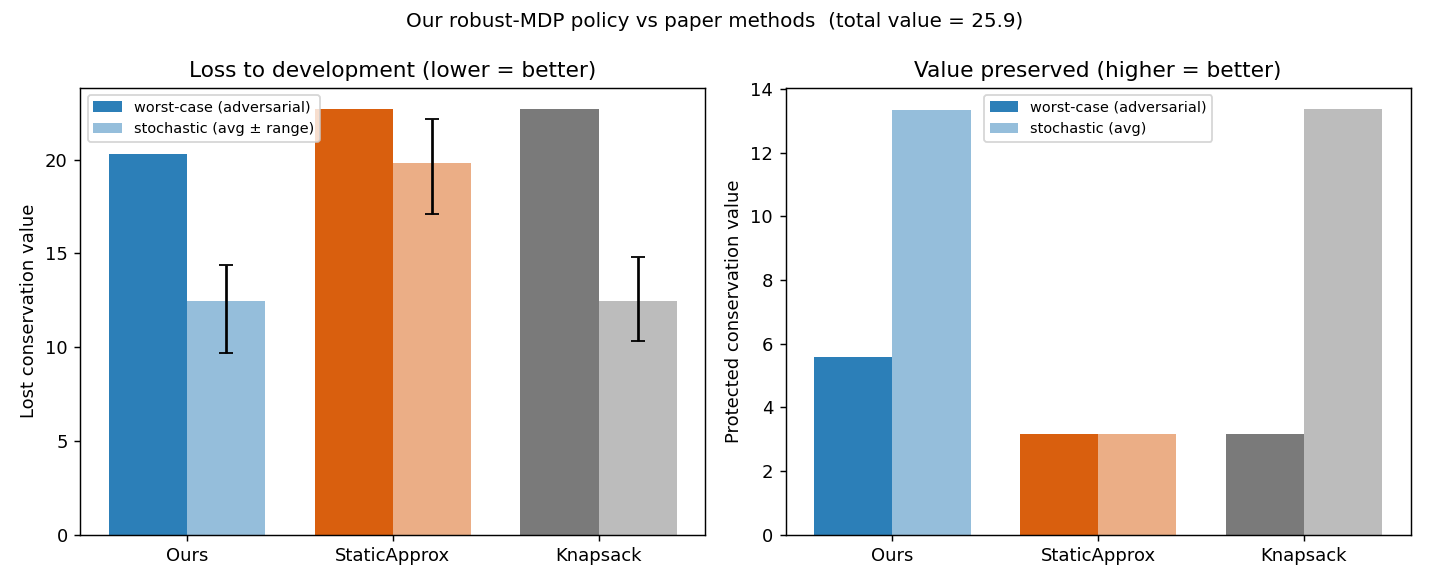
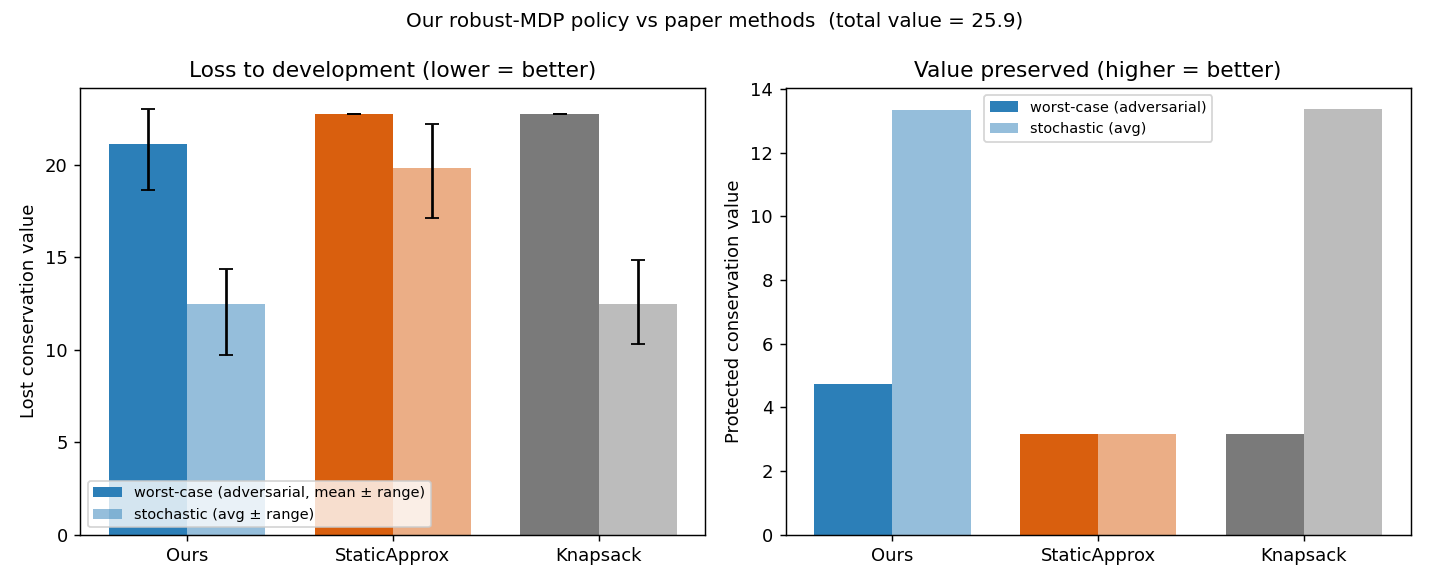
Make worst-case comparison distributional (correct a noisy single-episode claim)
The first version evaluated the worst-case adversary with one deterministic
episode per method. That was misleading: our policy samples its candidate
actions, so the greedy adversary's outcome varies trajectory-to-trajectory. The
single-episode number swung from -10.7% (run 2312346, lucky seed) to +0.4% (run
2392077, unlucky seed) -- an artifact of the metric, not the policy.

Fix: evaluate worst-case over --n-worstcase seeds (default 20) and report the
distribution, exactly as we already do for the stochastic nature. The plot now
shows mean ± range error bars on the worst-case bars too.

Corrected, reproducible result across BOTH trained runs:
  worst-case lost value  Ours 21.14 ± 1.17 (2312346) / 21.15 ± 1.49 (2392077)
                         vs StaticApprox = Knapsack = 22.72 (deterministic)
                         -> ~7% less worst-case loss, consistent across runs.
  average-case lost value Ours 12.2-12.5 ~= Knapsack, both ~38% below the
                         non-adaptive StaticApprox (19.8).

Takeaway: at lambda=0.20 the adversary is strong enough that the worst-case
advantage is modest (~7%) but real and reproducible; our policy's larger,
robust win is that it is the only method strong in BOTH the adversarial and the
average-case regime (StaticApprox collapses on average because it is
non-adaptive; Knapsack collapses on the worst case because it ignores uncertainty).

Artifacts regenerated for runs biodiv-2312346 and biodiv-2392077.

diff --git a/run_compare.py b/run_compare.py
@@ -96,6 +96,9 @@ def main():
                     help="theta filename inside run-dir")
     ap.add_argument("--n-stochastic", type=int, default=40,
                     help="episodes for the average-case stochastic nature")
+    ap.add_argument("--n-worstcase", type=int, default=20,
+                    help="seeds for the worst-case adversarial nature (our policy "
+                         "samples candidates, so a single episode is noisy)")
     ap.add_argument("--static-max-iters", type=int, default=25)
     ap.add_argument("--seed", type=int, default=123)
     ap.add_argument("--out-dir", default="")
@@ -142,14 +145,23 @@ def main():
     controllers = {"Ours": ours_fn, "StaticApprox": static_fn, "Knapsack": knapsack_fn}
 
     # ---- worst-case (adversarial) evaluation ----------------------------
+    # Our policy samples its candidate actions, so the greedy adversary's outcome
+    # is noisy across seeds; a single deterministic episode is misleading. We
+    # report the distribution over n_worstcase seeds. StaticApprox/Knapsack are
+    # deterministic (no sampling) so every seed gives the same value.
     results = {}
-    print("\n== Worst-case adversarial nature ==", flush=True)
+    print(f"\n== Worst-case adversarial nature ({args.n_worstcase} seeds) ==", flush=True)
     for name, fn in controllers.items():
-        rng_ctrl = np.random.default_rng(args.seed)
-        stats = run_episode(fn, worst_case_nature, cfg, md, rng_ctrl, None)
-        results.setdefault(name, {})["worst_case"] = stats
-        print(f"  {name:12s}  lost={stats['lost_value']:.3f}  "
-              f"protected={stats['protected_value']:.3f}  free={stats['free_value']:.3f}", flush=True)
+        samples = []
+        for s in range(args.n_worstcase):
+            rng_ctrl = np.random.default_rng(args.seed + s)
+            samples.append(run_episode(fn, worst_case_nature, cfg, md, rng_ctrl, None))
+        agg = aggregate(samples)
+        results.setdefault(name, {})["worst_case"] = agg
+        print(f"  {name:12s}  lost mean={agg['lost_value']['mean']:.3f}"
+              f" [{agg['lost_value']['min']:.2f},{agg['lost_value']['max']:.2f}]"
+              f" std={agg['lost_value']['std']:.3f}"
+              f"  protected mean={agg['protected_value']['mean']:.3f}", flush=True)
 
     # ---- average-case (stochastic) evaluation ---------------------------
     print(f"\n== Average-case stochastic nature ({args.n_stochastic} episodes) ==", flush=True)
@@ -188,17 +200,18 @@ def make_plot(results, md, out_dir):
     x = np.arange(len(names))
     width = 0.38
 
+    def err(metric, field):
+        lo = [results[n][field][metric]["mean"] - results[n][field][metric]["min"] for n in names]
+        hi = [results[n][field][metric]["max"] - results[n][field][metric]["mean"] for n in names]
+        return [lo, hi]
+
     # panel 0: lost value (lower is better)  -- the robustness metric
     ax = axes[0]
-    wc = [results[n]["worst_case"]["lost_value"] for n in names]
+    wc = [results[n]["worst_case"]["lost_value"]["mean"] for n in names]
     st = [results[n]["stochastic"]["lost_value"]["mean"] for n in names]
-    st_lo = [results[n]["stochastic"]["lost_value"]["mean"]
-             - results[n]["stochastic"]["lost_value"]["min"] for n in names]
-    st_hi = [results[n]["stochastic"]["lost_value"]["max"]
-             - results[n]["stochastic"]["lost_value"]["mean"] for n in names]
-    ax.bar(x - width / 2, wc, width, label="worst-case (adversarial)",
-           color=[colors[n] for n in names])
-    ax.bar(x + width / 2, st, width, yerr=[st_lo, st_hi], capsize=4,
+    ax.bar(x - width / 2, wc, width, yerr=err("lost_value", "worst_case"), capsize=4,
+           label="worst-case (adversarial, mean ± range)", color=[colors[n] for n in names])
+    ax.bar(x + width / 2, st, width, yerr=err("lost_value", "stochastic"), capsize=4,
            label="stochastic (avg ± range)", color=[colors[n] for n in names], alpha=0.5)
     ax.set_xticks(x); ax.set_xticklabels(names)
     ax.set_ylabel("Lost conservation value")
@@ -207,7 +220,7 @@ def make_plot(results, md, out_dir):
 
     # panel 1: protected value (higher is better)
     ax = axes[1]
-    wc = [results[n]["worst_case"]["protected_value"] for n in names]
+    wc = [results[n]["worst_case"]["protected_value"]["mean"] for n in names]
     st = [results[n]["stochastic"]["protected_value"]["mean"] for n in names]
     ax.bar(x - width / 2, wc, width, label="worst-case (adversarial)",
            color=[colors[n] for n in names])
@@ -227,17 +240,17 @@ def make_plot(results, md, out_dir):
 
 def print_verdict(results):
     print("\n== Verdict (worst-case adversarial lost value, lower=better) ==", flush=True)
-    ranked = sorted(results.items(), key=lambda kv: kv[1]["worst_case"]["lost_value"])
+    ranked = sorted(results.items(), key=lambda kv: kv[1]["worst_case"]["lost_value"]["mean"])
     for rank, (name, r) in enumerate(ranked, 1):
-        print(f"  {rank}. {name:12s}  lost={r['worst_case']['lost_value']:.3f}", flush=True)
-    best = ranked[0][0]
-    ours = results["Ours"]["worst_case"]["lost_value"]
+        wc = r["worst_case"]["lost_value"]
+        print(f"  {rank}. {name:12s}  lost={wc['mean']:.3f} ± {wc['std']:.3f}", flush=True)
+    ours = results["Ours"]["worst_case"]["lost_value"]["mean"]
     for name in results:
         if name == "Ours":
             continue
-        other = results[name]["worst_case"]["lost_value"]
+        other = results[name]["worst_case"]["lost_value"]["mean"]
         if other > 0:
-            print(f"  Ours vs {name}: {(other - ours) / other * 100:+.1f}% less worst-case loss", flush=True)
+            print(f"  Ours vs {name}: {(other - ours) / other * 100:+.1f}% less worst-case loss (mean)", flush=True)
 
 
 if __name__ == "__main__":
